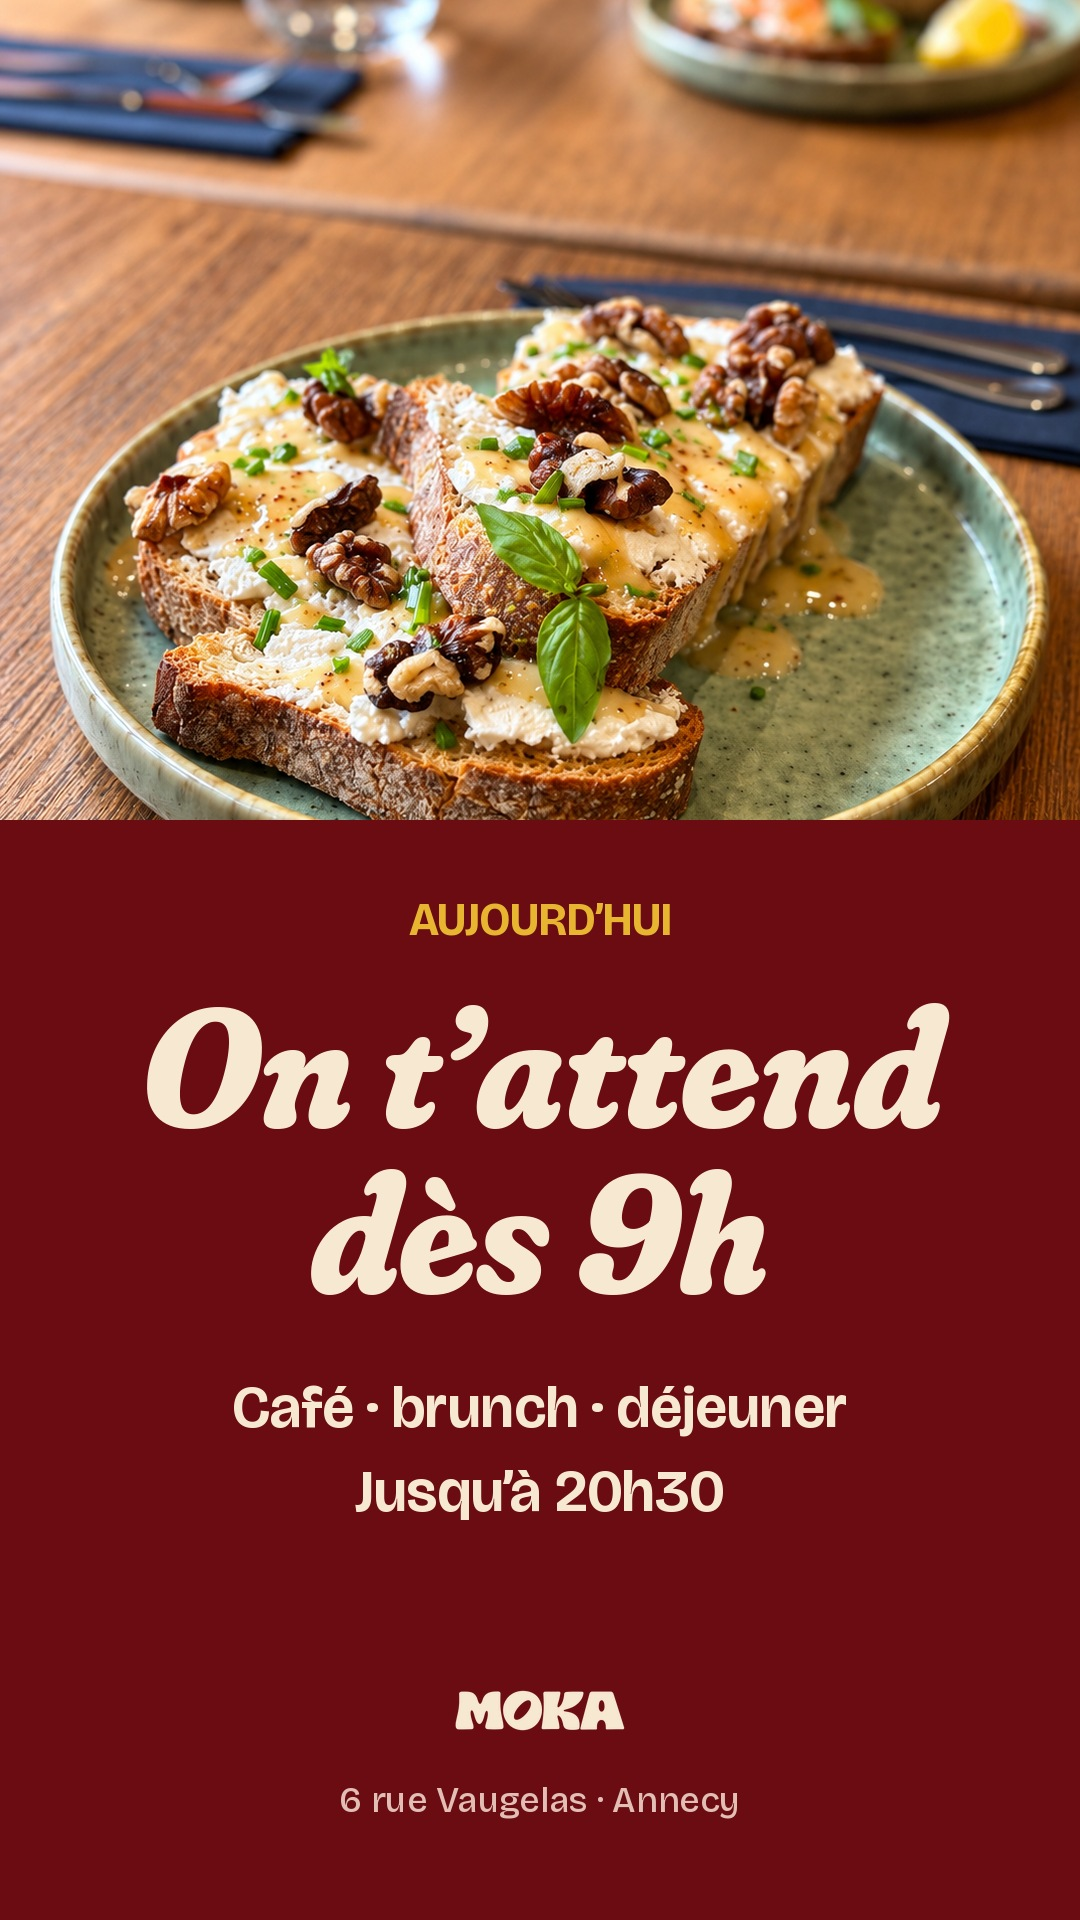
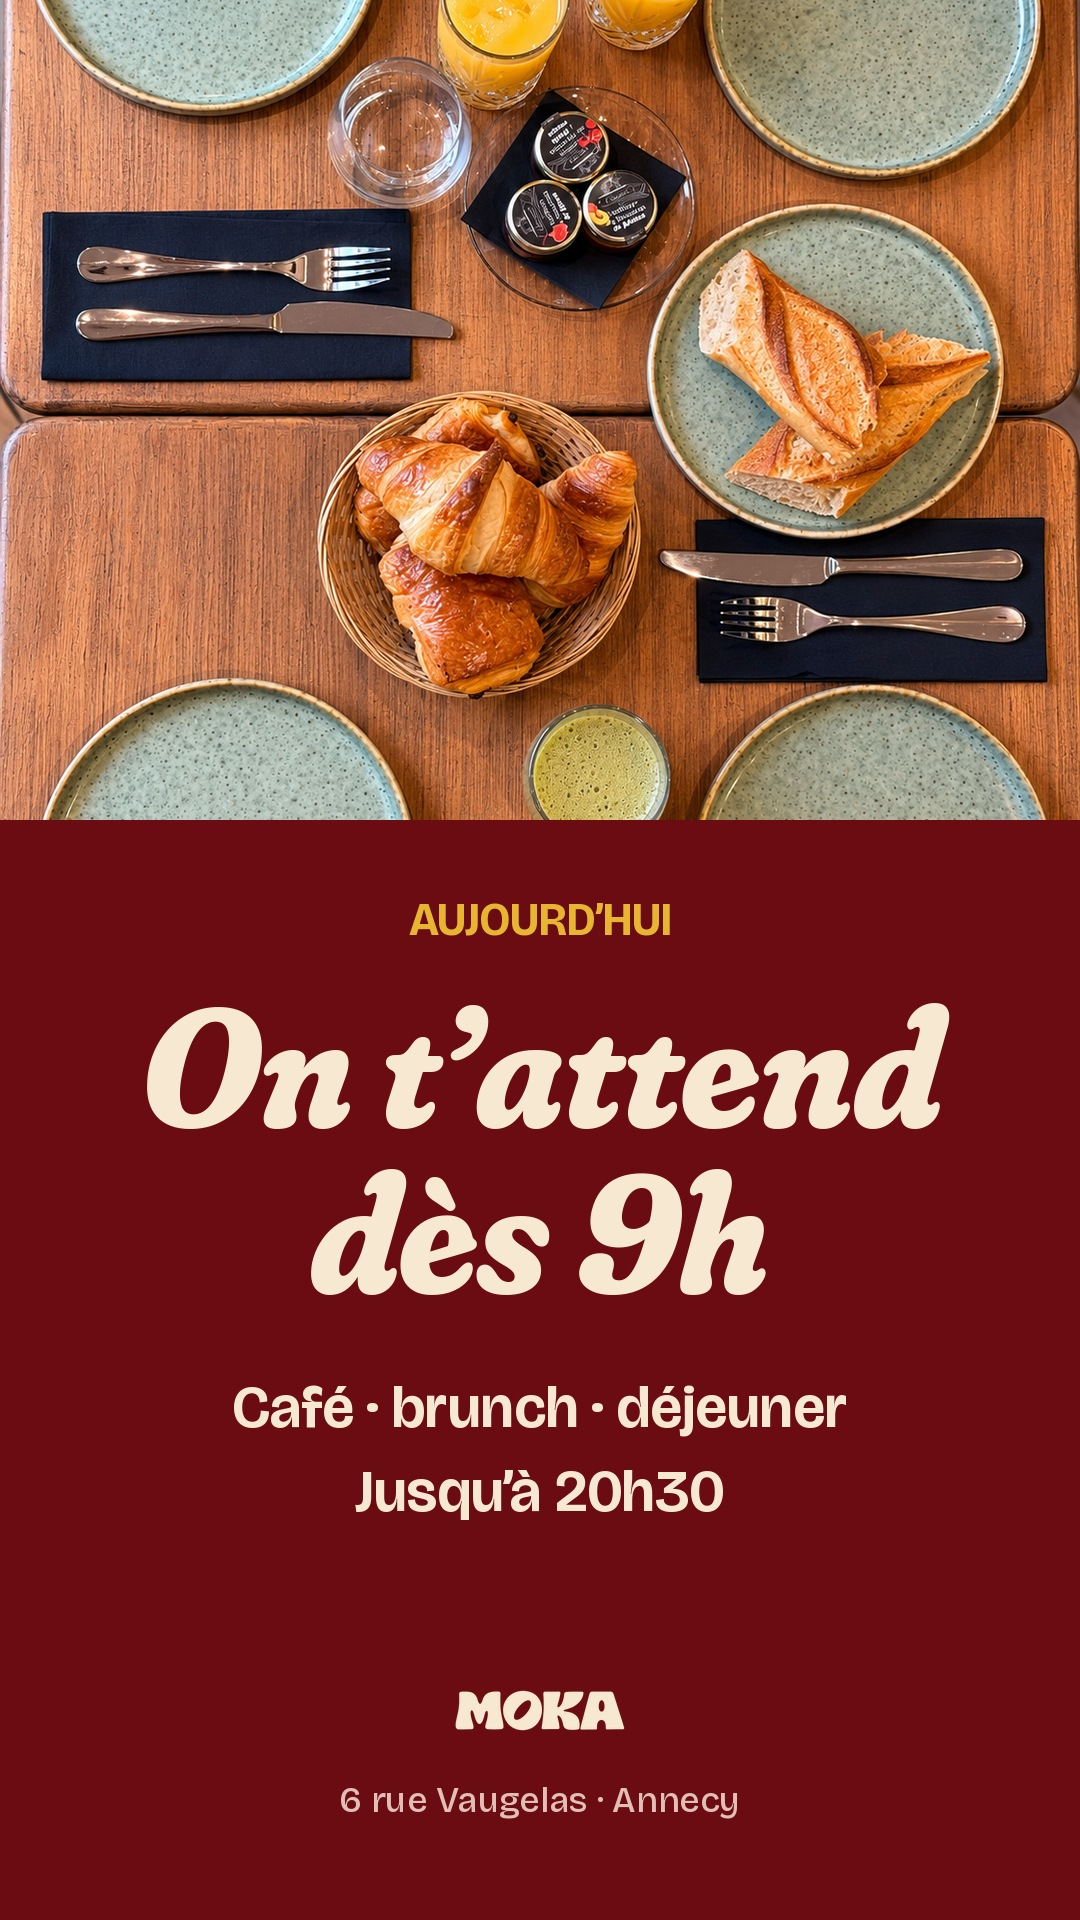
Registre photos : pas de doublon par plateforme ; stories S1 corrigées
Claude-Session: https://claude.ai/code/session_019Bk9xZKYKJ5wJ3PbSAVgiY

diff --git a/social/tools/meteo/meteo.py b/social/tools/meteo/meteo.py
@@ -110,6 +110,25 @@ BANK = {
  ],
 }
 
+# ---------- registre des photos : jamais deux fois la même photo sur la même plateforme ----------
+# Plusieurs fichiers d'une même prise de vue comptent comme une seule photo (même groupe).
+REGISTRE = os.path.join(REPO, 'social', 'photos-usage.json')
+GROUPE = {'oeufs_saumon': 'oeufs_saumon', 'ricotta': 'ricotta', 'egg_muffin': 'egg_muffin',
+          'tartine_saumon': 'tartine_saumon', 'matcha_viennoiseries': 'viennoiseries_matcha',
+          'viennoiseries_2': 'viennoiseries_matcha', 'ptit_dej_table': 'table_ptit_dej',
+          'jus_orange': 'table_ptit_dej', 'ptit_dej_dessus': 'ptit_dej_dessus'}
+
+def deja_utilisees(reseau='instagram'):
+    try: reg = json.load(open(REGISTRE))
+    except FileNotFoundError: return set()
+    return {e['photo'] for e in reg if e['reseau'] == reseau}
+
+def enregistrer(groupe, day, publication, reseau='instagram'):
+    try: reg = json.load(open(REGISTRE))
+    except FileNotFoundError: reg = []
+    reg.append(dict(photo=groupe, reseau=reseau, date=day.isoformat(), publication=publication))
+    json.dump(reg, open(REGISTRE, 'w'), ensure_ascii=False, indent=1)
+
 def day_line(wd):
     return 'Ce soir, cocktails jusqu’à 1 h' if wd in (4, 5) else 'Ouvert jusqu’à 20 h 30'
 
@@ -117,23 +136,32 @@ def choose(cat, day):
     opts = BANK[cat]
     if day.weekday() not in (1, 2, 3):  # pas de variante télétravail le vendredi / samedi
         opts = [o for o in opts if not o.get('bureau')] or opts
-    return opts[day.toordinal() % len(opts)]
+    used = deja_utilisees()
+    libres = [o for o in opts if GROUPE[o['p']] not in used]
+    if libres:
+        return libres[day.toordinal() % len(libres)], True
+    return opts[day.toordinal() % len(opts)], False  # toutes les photos déjà publiées : story texte
 
 def render(day, m):
-    cat = categorie(m); v = choose(cat, day)
+    cat = categorie(m); v, avec_photo = choose(cat, day)
     fmt = lambda s: s.replace('{tmin}', str(round(m['tmin']))).replace('{tmax}', str(round(m['tmax'])))
     kicker = fmt(v['k']); title = [fmt(x) for x in v['t']]
     title[-1] = title[-1].rstrip('.')
     info = [day_line(day.weekday()) if x == 'DAY' else fmt(x) for x in v['i']]
-    T = THEMES[v['th']]; W, H, PH = 1080, 1920, 820
+    T = THEMES[v['th'] if avec_photo else 'bx']; W, H, PH = 1080, 1920, 820
     im = Image.new('RGB', (W, H), T['bg'])
-    ph = ImageOps.exif_transpose(Image.open(os.path.join(HERE, 'photos', v['p'] + '.jpg'))).convert('RGB')
-    im.paste(cover(ph, W, PH, 0.55), (0, 0)); d = ImageDraw.Draw(im)
-    y = PH + 100; C(d, y, kicker, sans(fit(d, kicker, sans, 46, 960), 700), T['acc']); y += 145
-    ts = min(fit(d, t, ft, 170, 960) for t in title)
+    if avec_photo:
+        ph = ImageOps.exif_transpose(Image.open(os.path.join(HERE, 'photos', v['p'] + '.jpg'))).convert('RGB')
+        im.paste(cover(ph, W, PH, 0.55), (0, 0))
+        y, tmax = PH + 100, 170
+    else:
+        y, tmax = 480, 230  # story texte seule, centrée
+    d = ImageDraw.Draw(im)
+    C(d, y, kicker, sans(fit(d, kicker, sans, 46, 960), 700), T['acc']); y += 145 if avec_photo else 200
+    ts = min(fit(d, t, ft, tmax, 960) for t in title)
     for t in title: C(d, y, t, ft(ts), T['ink']); y += int(ts * 0.98)
     y += 10
-    for s in info: C(d, y, s, sans(fit(d, s, lambda z: sans(z, 650), 60, 960), 650), T['ink']); y += 84
+    for s in info: C(d, y, s, sans(fit(d, s, lambda z: sans(z, 650), 60 if avec_photo else 66, 960), 650), T['ink']); y += 84 if avec_photo else 92
     wm = wordmark(170, T['ink']); im.paste(wm, ((W - wm.width) // 2, H - 230), wm)
     C(d, H - 120, '6 rue Vaugelas · Annecy', sans(36, 500), T['soft'])
     os.makedirs(OUT_DIR, exist_ok=True)
@@ -141,7 +169,9 @@ def render(day, m):
     k = (kicker[:1] + kicker[1:].lower()).replace('annecy', 'Annecy')
     parts = [k, ' '.join(title)] + info
     alt = norm(' '.join(p if p.endswith(('?', '!', '.')) else p + '.' for p in parts))
-    return dict(file=os.path.relpath(fn, REPO), alt=alt, categorie=cat, meteo=m, photo=v['p'])
+    if avec_photo: enregistrer(GROUPE[v['p']], day, 'story météo')
+    return dict(file=os.path.relpath(fn, REPO), alt=alt, categorie=cat, meteo=m,
+                photo=GROUPE[v['p']] if avec_photo else None)
 
 if __name__ == '__main__':
     a = argparse.ArgumentParser()
